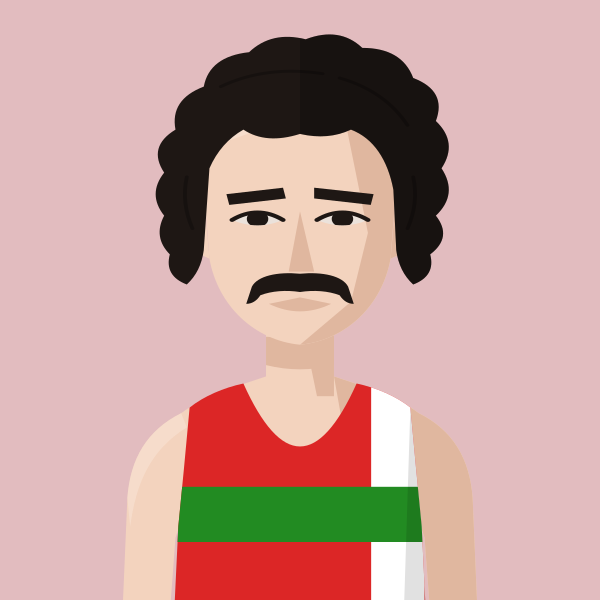
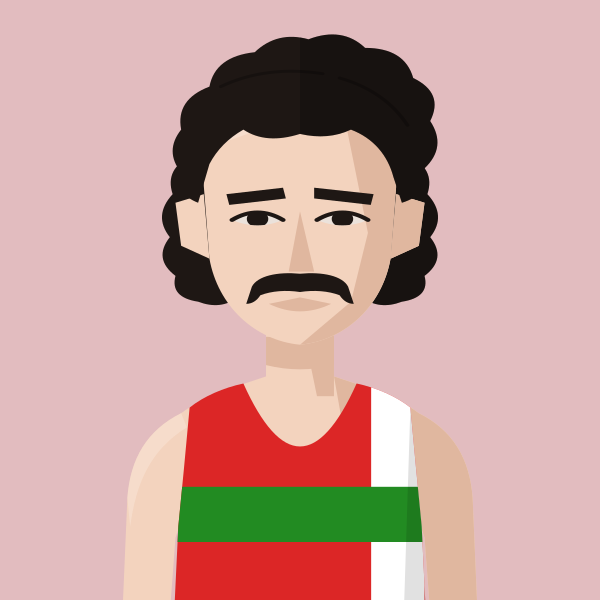
Bernie Ford: ears showing, bushy tufts behind either side of the neck
Claude-Session: https://claude.ai/code/session_01MgmDWhFqnSSnP4iBLKXUZC

diff --git a/files/index.html b/files/index.html
@@ -581,7 +581,7 @@ return m;})();
 const portraitFile=(name,club)=>{const k=normalizeNameForCompare(name||'').replace(/\s*\(([^)]*)\)$/,(m,c)=>CLUBS[c.toUpperCase()]?'':m);const a=PORTRAITS[k];if(a&&a.club===club)return a.file;const b=PORTRAITS[k+'@'+club];return b?b.file:null;};
 // Athlete header figure: superstar portrait if we have one, else a grey runner in the club vest, else the plain vest icon
 // Changes whenever any portrait changes (set by tools/build_og.py), so browsers fetch fresh images instead of old cached ones
-const PORTRAIT_V='12a02a2d';
+const PORTRAIT_V='49bee89b';
 const AthletePortrait=({name,club,w,fill,onClick})=>{const[failed,setFailed]=useState(false);const file=portraitFile(name,club);const src=file?`/portraits/athletes/${file}.svg?v=${PORTRAIT_V}`:PORTRAIT_CLUBS.has(club)?`/portraits/clubs/${club.replace(/\//g,'').replace(/&/g,'and')}.svg?v=${PORTRAIT_V}`:null;if(!src||failed)return<div onClick={onClick} className={onClick?'cursor-pointer':''}><ClubShield club={club} size={w}/></div>;const h=Math.round(w*148/126),ih=Math.round(w*1.4);if(fill)return<div onClick={onClick} className="cursor-pointer" style={{alignSelf:'stretch',minHeight:h,aspectRatio:'126 / 148',flexShrink:0,position:'relative',borderRadius:4,overflow:'hidden'}}><img src={src} alt={file?`Portrait of ${name.replace(/\s*\([^)]*\)$/,'')}`:`Runner in ${CLUBS[club]?.name||club} vest`} style={{position:'absolute',top:0,left:0,display:'block',width:'100%',height:'auto'}} onError={()=>setFailed(true)}/></div>;return<div style={{width:w,height:h,borderRadius:4,overflow:'hidden',flexShrink:0}}><img src={src} alt={file?`Portrait of ${name.replace(/\s*\([^)]*\)$/,'')}`:`Runner in ${CLUBS[club]?.name||club} vest`} width={w} height={ih} style={{display:'block',width:w,height:ih}} onError={()=>setFailed(true)}/></div>;};
 const getClubVestSvg=(club)=>{
   const p="M3 0 L6 0 Q7 4 10 5 Q13 4 14 0 L17 0 L17 20 L3 20 Z";

diff --git a/tools/gen_portraits.py b/tools/gen_portraits.py
@@ -130,7 +130,8 @@ HAIR["messyfringe"] = '<path d="M63,102 L59,76 L62,58 L70,46 L79,41 L82,30 L92,3
 HAIR["wavyback"] = '<path d="M64,108 C60,58 80,38 100,38 C121,38 140,58 136,108 L131,88 Q128,72 117,66 Q108,63 100,64 Q90,63 82,67 Q72,73 69,88 Z"/><path d="M64,96 Q56,104 60,114 Q54,122 60,132 Q56,142 64,148 L68,140 Q64,132 67,124 Q63,116 67,108 Z"/><path d="M136,96 Q144,104 140,114 Q146,122 140,132 Q144,142 136,148 L132,140 Q136,132 133,124 Q137,116 133,108 Z"/>'
 HAIR_BACK["wavyback"] = '<path d="M60,90 C58,54 80,36 100,36 C120,36 142,54 140,90 Q148,104 142,118 Q150,132 140,146 Q144,158 132,160 L68,160 Q56,158 60,146 Q50,132 58,118 Q52,104 60,90 Z"/>'
 HAIR["tightbun"] = HAIR["slick"]
-HAIR["seventies"] = '<path d="M60,142 Q52,138 54,128 Q48,120 52,110 Q46,100 52,90 Q46,78 56,70 Q54,56 66,50 Q68,36 82,34 Q90,24 102,28 Q114,22 122,32 Q136,32 140,46 Q152,52 148,66 Q156,76 150,88 Q156,100 148,110 Q154,120 146,128 Q148,138 140,142 Q135,136 134,126 L133,98 C131,84 126,74 118,70 Q110,75 100,72 Q88,77 80,70 Q72,76 68,88 L66,126 Q65,136 60,142 Z"/><g fill="none" stroke="#000" stroke-opacity=".25" stroke-width="1.4" stroke-linecap="round"><path d="M72,50 Q88,40 108,44"/><path d="M114,46 Q130,52 138,68"/><path d="M60,92 Q58,104 62,116"/><path d="M140,92 Q142,104 138,116"/></g>'
+HAIR["seventies"] = '<path d="M64,104 Q56,100 58,90 Q52,80 58,70 Q56,56 68,50 Q70,36 84,34 Q92,24 103,28 Q115,22 123,32 Q137,32 140,46 Q151,53 146,66 Q152,78 144,88 Q146,100 136,104 L133,92 C131,82 126,74 118,70 Q110,75 100,72 Q88,77 80,70 Q72,76 68,86 Z"/><g fill="none" stroke="#000" stroke-opacity=".25" stroke-width="1.4" stroke-linecap="round"><path d="M72,50 Q88,40 108,44"/><path d="M114,46 Q130,52 138,68"/></g>'
+HAIR_BACK["seventies"] = '<path d="M62,82 Q52,88 55,100 Q48,110 54,120 Q48,130 56,138 Q54,148 64,150 Q72,154 78,148 L86,146 L86,130 L114,130 L114,146 L122,148 Q128,154 136,150 Q146,148 144,138 Q152,130 146,120 Q152,110 145,100 Q148,88 138,82 Z"/>'
 HAIR["longflow"] = HAIR["longstraight"]
 HAIR_FRONT = {"longflow": '<path d="M62,150 C60,172 60,192 58,208 C56,236 56,280 58,330 L84,330 C82,280 82,236 82,210 C80,190 78,170 76,150 Z"/><path d="M138,150 C140,172 140,192 142,208 C144,236 144,280 142,330 L116,330 C118,280 118,236 118,210 C120,190 122,170 124,150 Z"/>'}
 HAIR_BACK["longflow"] = HAIR_BACK["longstraight"]
